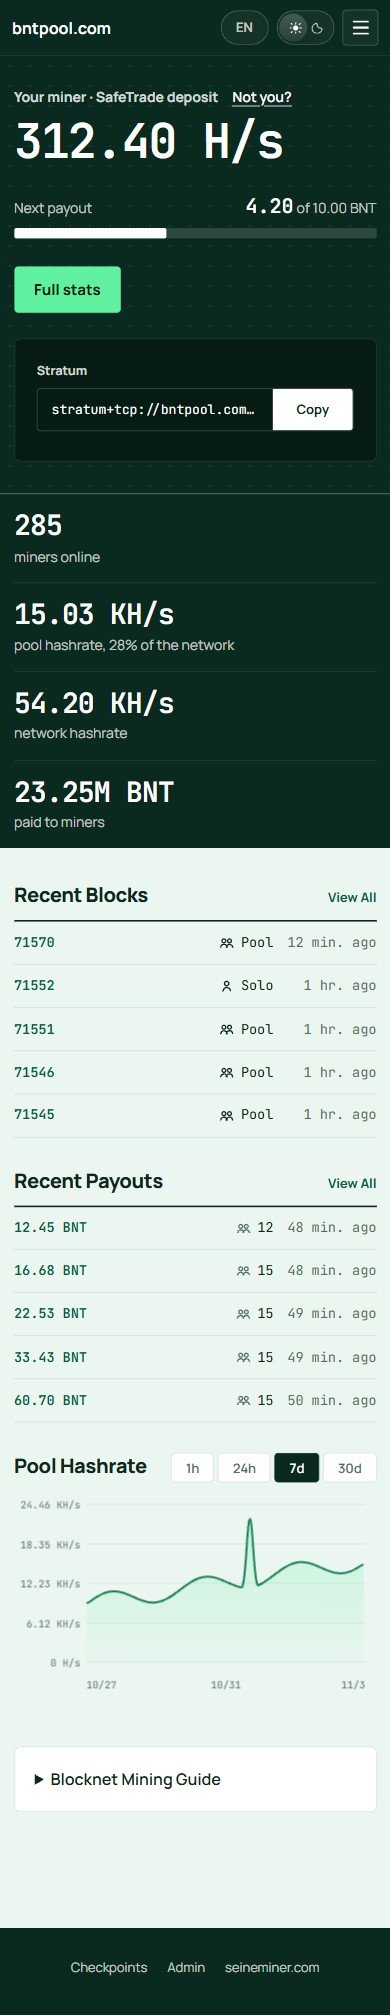
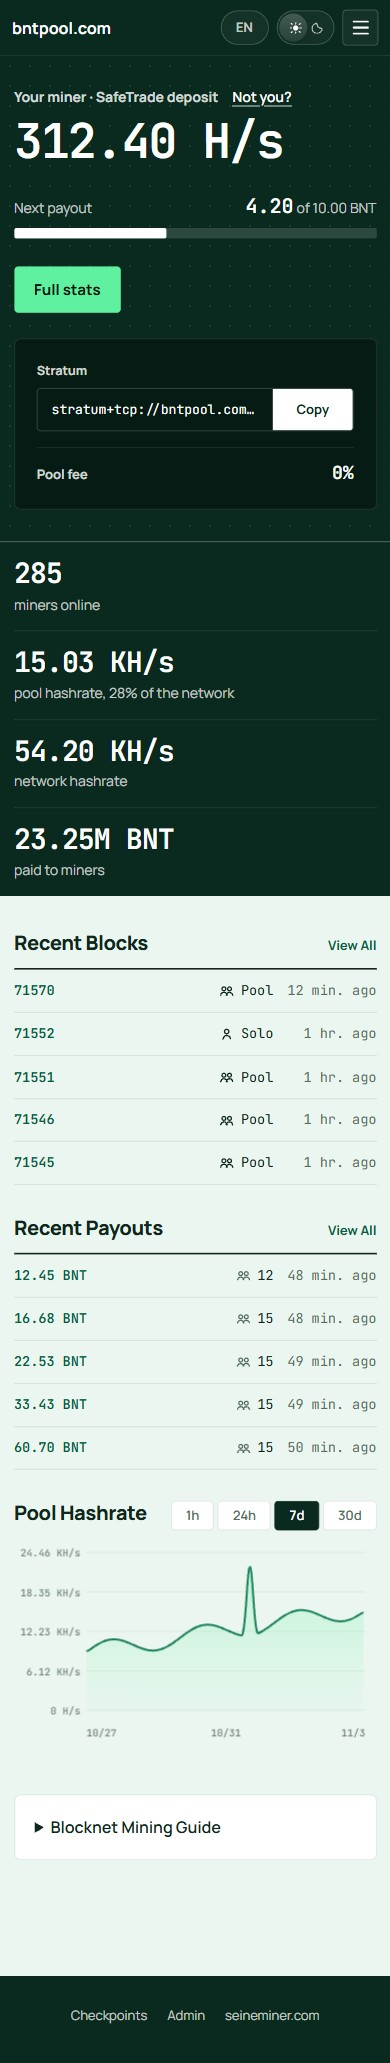
Show the pool fee to returning miners on the front page
A saved miner sees a Pool fee row under the Stratum address; first visits
keep the large fee headline. Showcase captures refreshed for the returning
miner states.

Claude-Session: https://claude.ai/code/session_01Aa42KkUxqJJU3FHZ18FCNP

diff --git a/frontend/src/styles.css b/frontend/src/styles.css
@@ -588,6 +588,8 @@ html:lang(zh) .page-header h1 {
 .home-field input[type='text']:focus { outline: none; border: 0; box-shadow: none; }
 .home-field button { border: 0; background: #ffffff; color: var(--hero); font-family: 'Manrope', sans-serif; font-size: 13px; font-weight: 700; padding: 0 16px; min-width: 80px; cursor: pointer; }
 .home-field button:focus-visible { outline-offset: -4px; outline-color: var(--hero); }
+.home-fee-row { display: flex; justify-content: space-between; align-items: baseline; gap: 12px; margin: 0; padding-top: 12px; border-top: 1px solid rgba(255, 255, 255, 0.1); font-size: 13px; font-weight: 700; color: var(--hero-soft); }
+.home-fee-row strong { font-family: 'JetBrains Mono', monospace; font-size: 18px; color: var(--hero-ink); }
 .home-copy-error { margin: -4px 0 6px; font-size: 13px; color: var(--hero-soft); }
 
 .home-band {

diff --git a/frontend/src/pages/DashboardPage.tsx b/frontend/src/pages/DashboardPage.tsx
@@ -220,6 +220,7 @@ export function DashboardPage({ api, poolInfo, liveTick, theme, onJumpToStats }:
               </button>
             </div>
             {copyState === 'error' && <p className="home-copy-error" role="alert">{t('copyUnavailable')}</p>}
+            {showMiner && <p className="home-fee-row"><span>{t('poolFee')}</span><strong dir="ltr">{feeLabel}</strong></p>}
             {!showMiner && <>
             <label className="home-label" htmlFor="dashboard-lookup">{t('checkMiner')}</label>
             <form

diff --git a/frontend/showcases/front-page/README.md b/frontend/showcases/front-page/README.md
@@ -12,7 +12,7 @@ pool, explorer or analytics endpoint. States:
   under 1100 px, stacked on phones), Quick Start, recent blocks and payouts, the hashrate
   chart and the mining guide.
 - `below`, `ready`, `queued`, `paid`: a saved lookup turns the hero into the visitor's miner, with
-  hashrate, one next-payout bar and Full stats; the side panel keeps only Stratum. Below the minimum
+  hashrate, one next-payout bar and Full stats; the side panel keeps Stratum and the pool fee. Below the minimum
   the bar fills toward it; over it the bar is full; a queued payout shows a striped bar; just after a
   payout a line names it.
 - `no-workers`: a saved miner with nothing online links to the zero-hashrate help.
